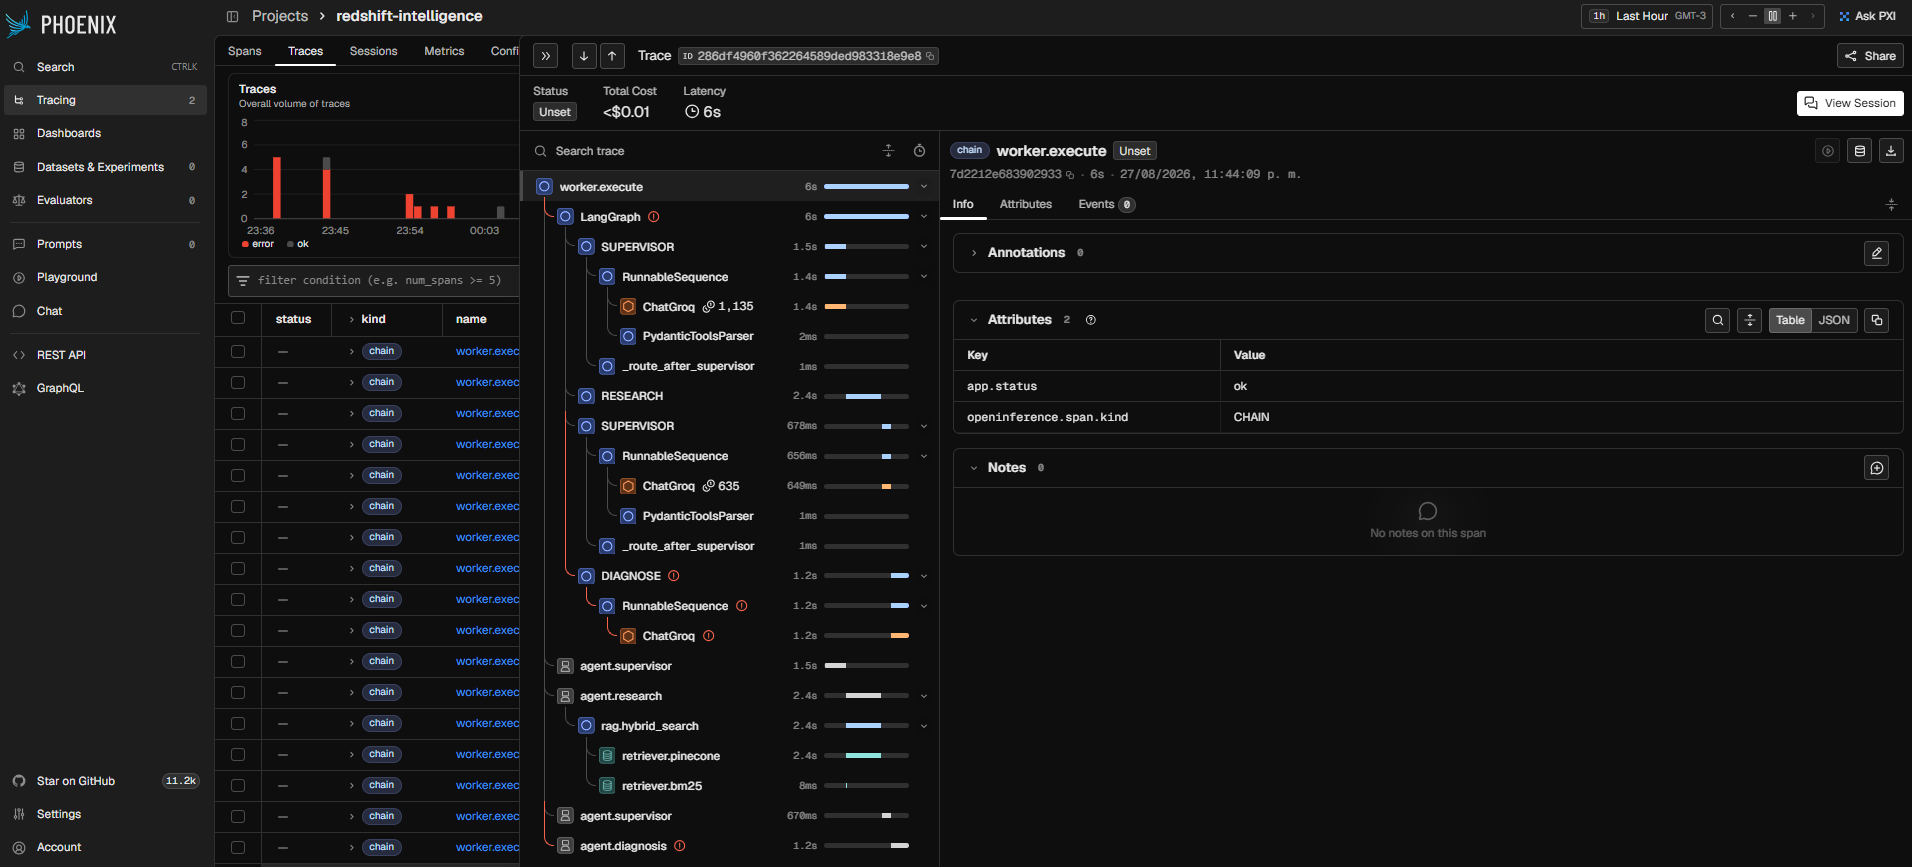
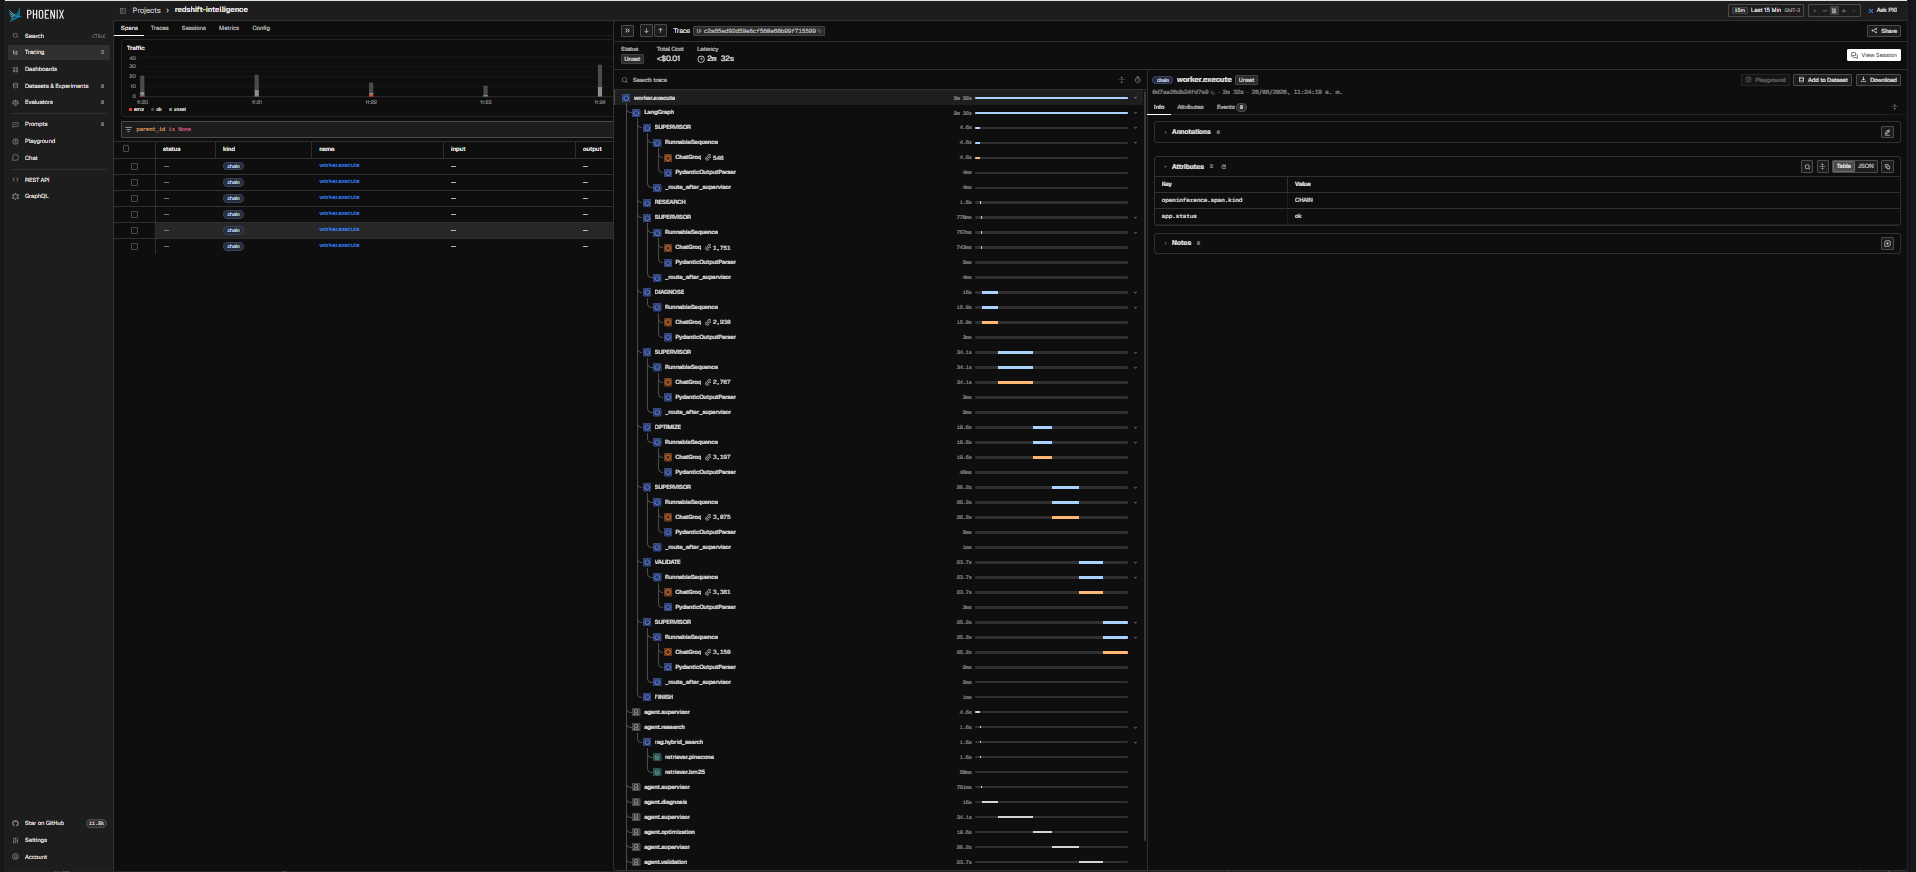
docs: clarify stabilization traces and refresh evidence

diff --git a/Proyecto_Final/README.md b/Proyecto_Final/README.md
@@ -174,6 +174,12 @@ Vista general del proyecto `redshift-intelligence` en Arize Phoenix:
 
 ![Vista general de trazas en Arize Phoenix](evidence/01-overview-traces.PNG)
 
+> **Nota sobre los errores visibles:** esta vista general conserva ejecuciones de
+> estabilización afectadas por límites de cuota y validaciones de modelos externos.
+> Se incluyen deliberadamente porque demuestran que Phoenix captura recorridos
+> exitosos y fallos con su latencia y causa. Las siguientes capturas corresponden
+> a ejecuciones finales correctas del grafo, el RAG híbrido y la aprobación humana.
+
 ### Supervisor y agentes especializados
 
 Árbol de ejecución con Supervisor, Research, Diagnosis, Optimization y sus

diff --git a/Proyecto_Final/evidence/observability-report.md b/Proyecto_Final/evidence/observability-report.md
@@ -41,6 +41,12 @@ La cantidad acumulada incluye las ejecuciones de estabilización previas al lote
 definitivo. Los cinco Job IDs de la tabla permiten localizar las trazas finales en
 el dashboard.
 
+La captura general conserva algunos errores de estabilización causados por límites
+de cuota y validaciones de modelos externos. No se ocultaron porque forman parte de
+la evidencia de observabilidad: Phoenix registró los fallos, su latencia y su causa.
+Las capturas específicas de Supervisor, RAG híbrido y HITL muestran ejecuciones
+finales correctas.
+
 ## Capturas requeridas para la entrega
 
 Desde <http://127.0.0.1:6006>, seleccionar el proyecto
